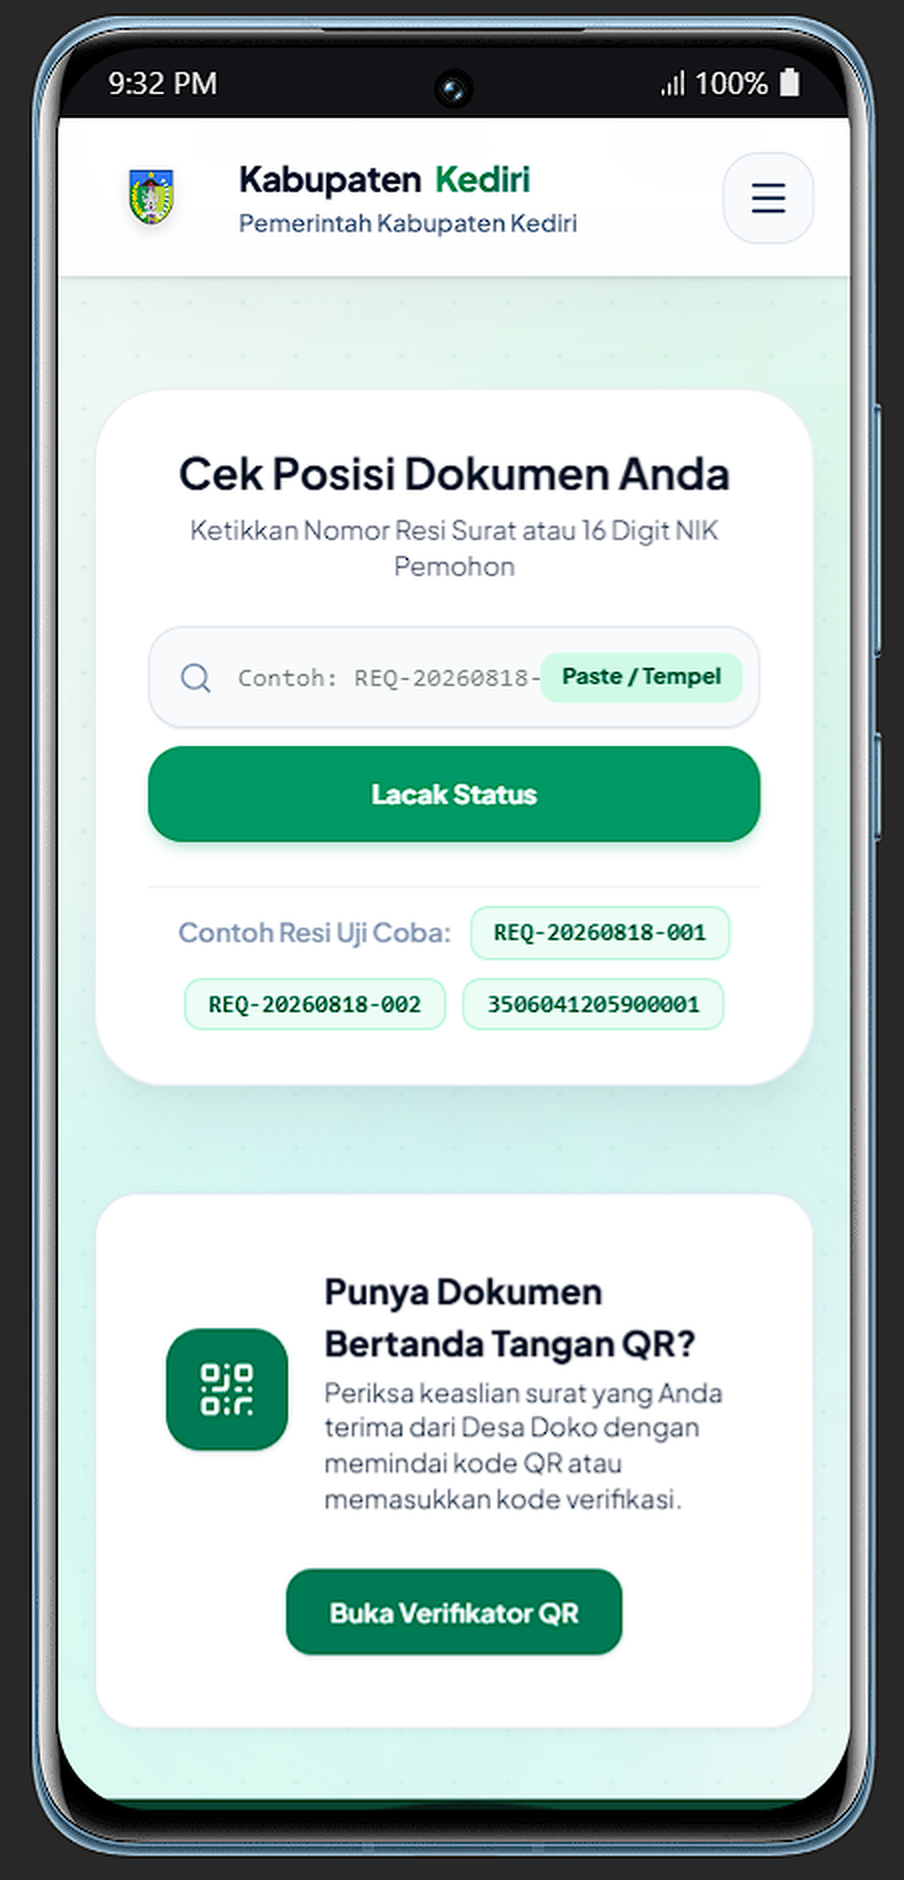
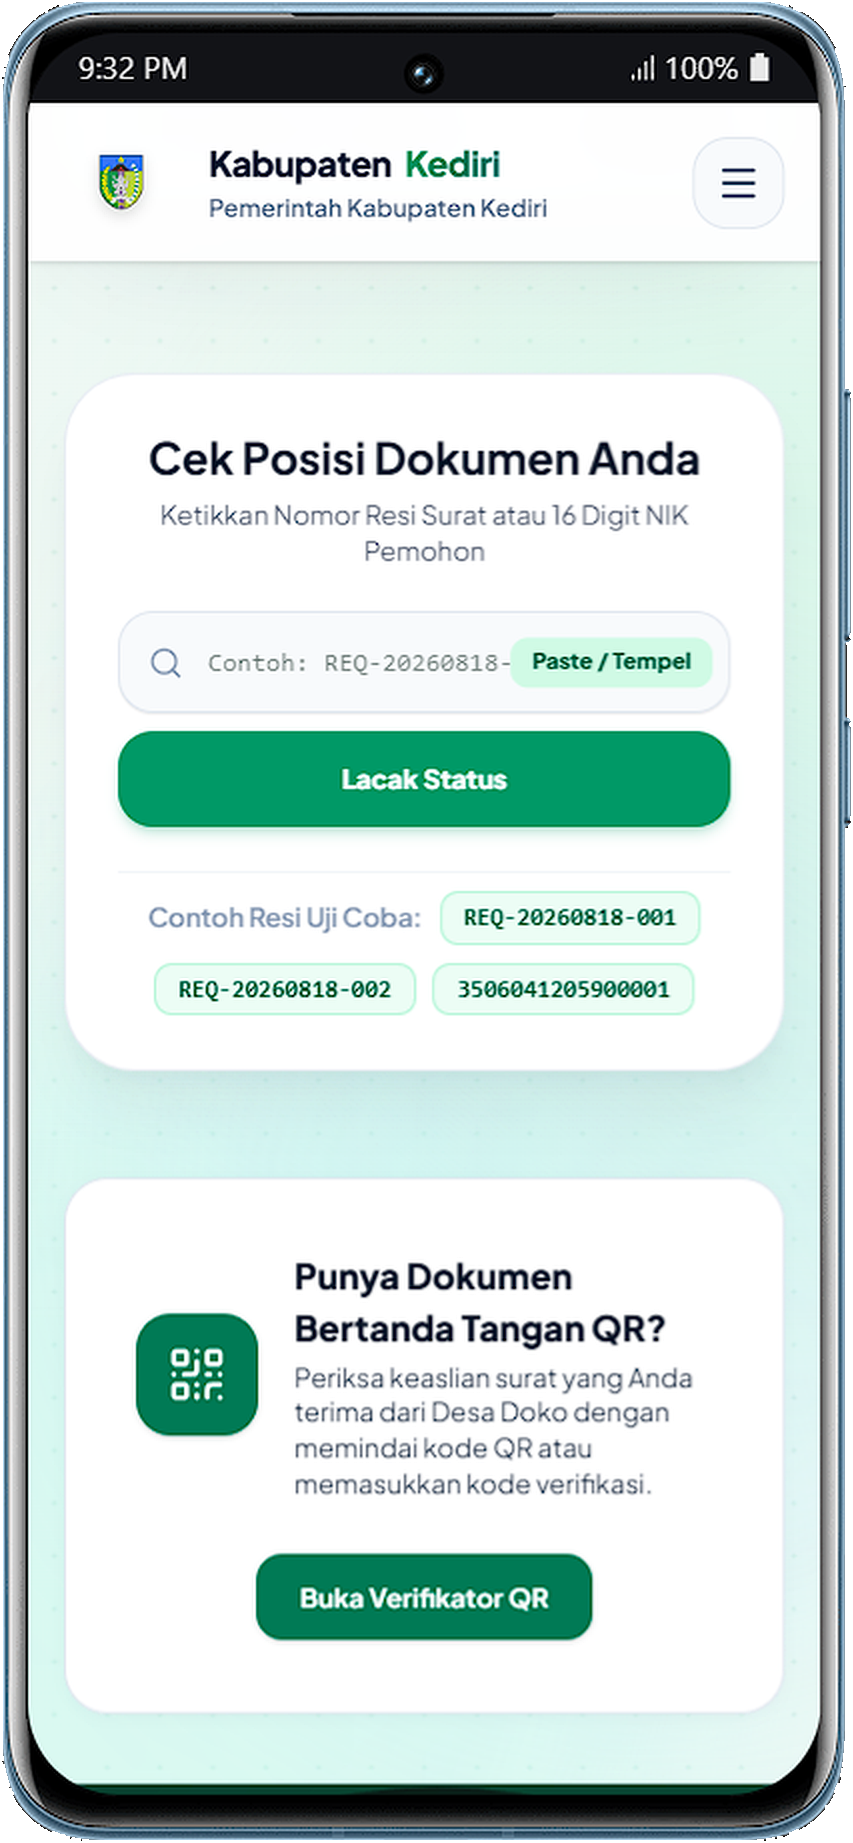
feat(landing): make orbital ecosystem background seamless, remove black box behind phone, and remove top live hub bar

diff --git a/frontend/src/features/landing/components/HomePage.tsx b/frontend/src/features/landing/components/HomePage.tsx
@@ -26,8 +26,6 @@ import {
   QrCode,
   ChevronDown,
   HelpCircle,
-  Play,
-  Pause,
   MessageSquare,
 } from "lucide-react";
 import api from "@/shared/lib/axios";
@@ -41,7 +39,6 @@ export const HomePage: React.FC = () => {
   const [stats, setStats] = useState<any>(null);
   const [beritas, setBeritas] = useState<Berita[]>([]);
   const [pengumumans, setPengumumans] = useState<Pengumuman[]>([]);
-  const [isOrbitSpinning, setIsOrbitSpinning] = useState(true);
 
   // Typewriter animation effect for hero description
   const heroFullText =
@@ -332,10 +329,6 @@ export const HomePage: React.FC = () => {
         <div className="grid grid-cols-1 lg:grid-cols-12 gap-10 lg:gap-8 items-center">
           {/* Left Column: Headline & Action */}
           <div className="lg:col-span-7 space-y-6">
-            <div className="inline-flex items-center gap-2 px-3.5 py-1.5 rounded-full bg-emerald-100/80 text-emerald-800 text-xs font-black border border-emerald-200 shadow-2xs animate-fade-in">
-              <Sparkles className="w-3.5 h-3.5 text-emerald-600" />
-              <span>Sistem Informasi & Tata Kelola Digital Desa Doko</span>
-            </div>
 
             <h1 className="text-4xl sm:text-5xl lg:text-6xl font-black text-slate-950 tracking-tight leading-[1.08]">
               Satu Portal. <br />
@@ -751,7 +744,7 @@ export const HomePage: React.FC = () => {
 
       {/* SmartRT / Photo 4: Unified Orbital Ecosystem Section */}
       <section className="max-w-7xl mx-auto px-4 sm:px-6 lg:px-8 py-10 sm:py-16">
-        <div className="text-center max-w-3xl mx-auto space-y-3 mb-10 sm:mb-14">
+        <div className="text-center max-w-3xl mx-auto space-y-3 mb-6 sm:mb-10">
           <div className="pill-badge-emerald">
             <Sparkles className="w-3.5 h-3.5 text-emerald-600" />
             <span>ARSITEKTUR DIGITAL TERINTEGRASI</span>
@@ -764,67 +757,32 @@ export const HomePage: React.FC = () => {
           </p>
         </div>
 
-        {/* Showcase Container with Emerald Canvas & Orbit */}
-        <div className="relative overflow-hidden rounded-3xl sm:rounded-[2.5rem] bg-gradient-to-br from-[#00875a] via-[#047857] to-[#065f46] text-white p-6 sm:p-10 lg:p-12 shadow-2xl shadow-emerald-950/20 border border-emerald-500/20 group/orbit">
-          {/* Top Stage Bar */}
-          <div className="flex items-center justify-between relative z-30 pb-4 border-b border-white/10 mb-4 sm:mb-6">
-            <div className="flex items-center gap-2.5">
-              <span className="relative flex h-3 w-3">
-                <span className="animate-ping absolute inline-flex h-full w-full rounded-full bg-emerald-300 opacity-75" />
-                <span className="relative inline-flex rounded-full h-3 w-3 bg-emerald-400" />
-              </span>
-              <span className="text-xs font-bold tracking-wider uppercase text-emerald-100">
-                SiDesKu Mobile App • Live Hub
-              </span>
-            </div>
-
-            {/* Orbit Rotation Toggle Button */}
-            <button
-              onClick={() => setIsOrbitSpinning((prev) => !prev)}
-              className="inline-flex items-center gap-2 px-3.5 py-1.5 rounded-full bg-white/10 hover:bg-white/20 border border-white/20 text-xs font-semibold text-white backdrop-blur-md transition-all cursor-pointer shadow-sm"
-              title={isOrbitSpinning ? "Klik untuk menjeda putaran orbit" : "Klik untuk memutar orbit kembali"}
-            >
-              {isOrbitSpinning ? (
-                <>
-                  <Pause className="w-3.5 h-3.5" />
-                  <span className="hidden sm:inline">Jeda Orbit</span>
-                </>
-              ) : (
-                <>
-                  <Play className="w-3.5 h-3.5" />
-                  <span className="hidden sm:inline">Putar Orbit</span>
-                </>
-              )}
-            </button>
-          </div>
-
+        {/* Seamless Canvas Container */}
+        <div className="relative overflow-hidden py-2 sm:py-6 group/orbit">
           {/* Desktop Orbital Stage (>= 1024px) */}
-          <div className="hidden lg:flex items-center justify-center relative min-h-[900px] w-full overflow-hidden select-none">
-            {/* Concentric Orbit Rings (4 rings behind phone, matching Photo 4) */}
+          <div className="hidden lg:flex items-center justify-center relative min-h-[920px] w-full overflow-hidden select-none">
+            {/* Concentric Orbit Rings (4 subtle emerald rings) */}
             <div className="absolute inset-0 flex items-center justify-center pointer-events-none z-0">
-              <div className="w-[390px] h-[390px] rounded-full border border-white/25 absolute" />
-              <div className="w-[580px] h-[580px] rounded-full border border-white/20 absolute" />
-              <div className="w-[760px] h-[760px] rounded-full border border-white/20 absolute" />
-              <div className="w-[940px] h-[940px] rounded-full border border-white/15 absolute" />
-              {/* Radial Center Backlight */}
-              <div className="w-[480px] h-[480px] rounded-full bg-emerald-300/15 blur-3xl absolute" />
+              <div className="w-[390px] h-[390px] rounded-full border border-emerald-500/20 absolute" />
+              <div className="w-[580px] h-[580px] rounded-full border border-emerald-500/15 absolute" />
+              <div className="w-[760px] h-[760px] rounded-full border border-emerald-500/15 absolute" />
+              <div className="w-[940px] h-[940px] rounded-full border border-emerald-500/10 absolute" />
+              {/* Subtle Radial Center Backlight */}
+              <div className="w-[500px] h-[500px] rounded-full bg-emerald-500/10 blur-3xl absolute" />
             </div>
 
-            {/* Center Static Smartphone Mockup (from user upload, sharpened) */}
+            {/* Center Static Smartphone Mockup (Transparent Background) */}
             <div className="relative z-20 flex flex-col items-center justify-center pointer-events-auto">
               <img
                 src="/images/landing/mobile-preview-clean.png"
                 alt="SiDesKu Mobile Preview"
-                className="w-[270px] xl:w-[285px] h-auto object-contain drop-shadow-[0_25px_35px_rgba(0,0,0,0.45)] animate-float-gentle select-none pointer-events-none"
+                className="w-[270px] xl:w-[285px] h-auto object-contain drop-shadow-[0_20px_40px_rgba(0,0,0,0.15)] animate-float-gentle select-none pointer-events-none"
               />
             </div>
 
             {/* Rotating Orbital Track (Nodes circle around the phone) */}
             <div
               className="absolute inset-0 w-full h-full animate-orbit-rotate group-hover/orbit:[animation-play-state:paused] pointer-events-none z-20"
-              style={{
-                animationPlayState: isOrbitSpinning ? "running" : "paused",
-              }}
             >
               {orbitalNodes.map((item) => {
                 const IconComponent = item.icon;
@@ -840,24 +798,19 @@ export const HomePage: React.FC = () => {
                     {/* Counter-rotation ensures text & icon stay 100% upright and readable */}
                     <div
                       className="animate-orbit-counter group-hover/orbit:[animation-play-state:paused]"
-                      style={{
-                        animationPlayState: isOrbitSpinning
-                          ? "running"
-                          : "paused",
-                      }}
                     >
                       <Link
                         to={item.link}
-                        className="group flex items-center gap-3.5 px-4 py-3 rounded-2xl bg-white/10 hover:bg-white/20 backdrop-blur-md border border-white/20 hover:border-white/40 shadow-lg hover:shadow-2xl transition-all duration-300 hover:scale-105 cursor-pointer max-w-[270px]"
+                        className="group flex items-center gap-3.5 px-4 py-3 rounded-2xl bg-white/95 hover:bg-white border border-slate-200/90 hover:border-emerald-400 shadow-md hover:shadow-xl hover:scale-105 transition-all duration-300 cursor-pointer max-w-[275px]"
                       >
-                        <div className="w-10 h-10 rounded-full bg-white/20 backdrop-blur-md border border-white/40 flex items-center justify-center shrink-0 shadow-md text-white group-hover:bg-white group-hover:text-emerald-700 transition-all duration-300">
+                        <div className="w-10 h-10 rounded-xl bg-emerald-50 border border-emerald-200/80 flex items-center justify-center shrink-0 shadow-2xs text-emerald-600 group-hover:bg-emerald-600 group-hover:text-white transition-all duration-300">
                           <IconComponent className="w-5 h-5" />
                         </div>
                         <div>
-                          <h4 className="font-bold text-white text-sm leading-snug group-hover:text-emerald-200 transition-colors drop-shadow-xs whitespace-nowrap">
+                          <h4 className="font-bold text-slate-900 text-sm leading-snug group-hover:text-emerald-700 transition-colors whitespace-nowrap">
                             {item.title}
                           </h4>
-                          <p className="text-white/80 text-[11px] leading-snug mt-0.5">
+                          <p className="text-slate-500 text-[11px] leading-snug mt-0.5">
                             {item.desc}
                           </p>
                         </div>
@@ -873,13 +826,13 @@ export const HomePage: React.FC = () => {
           <div className="block lg:hidden space-y-8 relative z-10 select-none">
             {/* Center Mobile Phone with Ambient Glowing Rings */}
             <div className="relative flex items-center justify-center py-6">
-              <div className="absolute w-64 h-64 rounded-full border border-white/25 pointer-events-none" />
-              <div className="absolute w-80 h-80 rounded-full border border-white/15 pointer-events-none" />
-              <div className="absolute w-48 h-48 rounded-full bg-emerald-300/15 blur-2xl pointer-events-none" />
+              <div className="absolute w-64 h-64 rounded-full border border-emerald-500/20 pointer-events-none" />
+              <div className="absolute w-80 h-80 rounded-full border border-emerald-500/10 pointer-events-none" />
+              <div className="absolute w-48 h-48 rounded-full bg-emerald-500/10 blur-2xl pointer-events-none" />
               <img
                 src="/images/landing/mobile-preview-clean.png"
                 alt="SiDesKu Mobile Preview"
-                className="w-56 sm:w-64 h-auto object-contain drop-shadow-2xl relative z-10 animate-float-gentle"
+                className="w-56 sm:w-64 h-auto object-contain drop-shadow-xl relative z-10 animate-float-gentle"
               />
             </div>
 
@@ -891,16 +844,16 @@ export const HomePage: React.FC = () => {
                   <Link
                     key={item.id}
                     to={item.link}
-                    className="flex items-start gap-3.5 p-4 rounded-2xl bg-white/10 hover:bg-white/20 backdrop-blur-md border border-white/20 transition-all duration-200 active:scale-[0.98]"
+                    className="flex items-start gap-3.5 p-4 rounded-2xl bg-white border border-slate-200/90 shadow-sm hover:border-emerald-400 hover:shadow-md transition-all duration-200 active:scale-[0.98]"
                   >
-                    <div className="w-10 h-10 rounded-full bg-white/20 border border-white/40 flex items-center justify-center shrink-0 text-white">
+                    <div className="w-10 h-10 rounded-xl bg-emerald-50 border border-emerald-200/80 flex items-center justify-center shrink-0 text-emerald-600">
                       <IconComponent className="w-5 h-5" />
                     </div>
                     <div className="space-y-1">
-                      <h4 className="font-bold text-white text-sm">
+                      <h4 className="font-bold text-slate-900 text-sm">
                         {item.title}
                       </h4>
-                      <p className="text-xs text-white/80 leading-relaxed">
+                      <p className="text-xs text-slate-500 leading-relaxed">
                         {item.desc}
                       </p>
                     </div>

diff --git a/frontend/e2e/orbital-ecosystem.spec.ts b/frontend/e2e/orbital-ecosystem.spec.ts
@@ -1,7 +1,7 @@
 import { test, expect } from '@playwright/test';
 import path from 'path';
 
-test('Verify Orbital Ecosystem section, Mobile Preview & Rotating Animations', async ({ page, isMobile }) => {
+test('Verify Seamless Orbital Ecosystem section, Transparent Mobile Preview & Animations', async ({ page, isMobile }) => {
   await page.goto('/', { waitUntil: 'domcontentloaded' });
 
   // Locate the section
@@ -34,25 +34,19 @@ test('Verify Orbital Ecosystem section, Mobile Preview & Rotating Animations', a
       await expect(page.locator(`text=${title}`).first()).toBeVisible({ timeout: 5000 });
     }
 
-    // Check pause/play toggle button
-    const toggleBtn = page.locator('button:has-text("Jeda Orbit"), button:has-text("Putar Orbit")').first();
-    await expect(toggleBtn).toBeVisible();
+    // Verify Jeda Orbit button is removed as requested
+    const toggleBtn = page.locator('button:has-text("Jeda Orbit"), button:has-text("Putar Orbit")');
+    await expect(toggleBtn).toHaveCount(0);
 
-    // Take screenshot of the Orbital Ecosystem running
+    // Verify SiDesKu Mobile App • Live Hub text is removed as requested
+    const hubText = page.locator('text=SiDesKu Mobile App • Live Hub');
+    await expect(hubText).toHaveCount(0);
+
+    // Take screenshot of the seamless Orbital Ecosystem
     const sectionContainer = page.locator('div.group\\/orbit');
     await sectionContainer.screenshot({
       path: path.resolve('e2e', 'screenshots', `02_Orbital_Ecosystem_${mode}.png`),
     });
-
-    // Click toggle to pause
-    await toggleBtn.click();
-    await page.waitForTimeout(300);
-    await expect(page.locator('text=Putar Orbit')).toBeVisible();
-
-    // Click toggle to resume
-    await toggleBtn.click();
-    await page.waitForTimeout(300);
-    await expect(page.locator('text=Jeda Orbit')).toBeVisible();
   } else {
     const sectionContainer = page.locator('div.group\\/orbit');
     await sectionContainer.screenshot({
